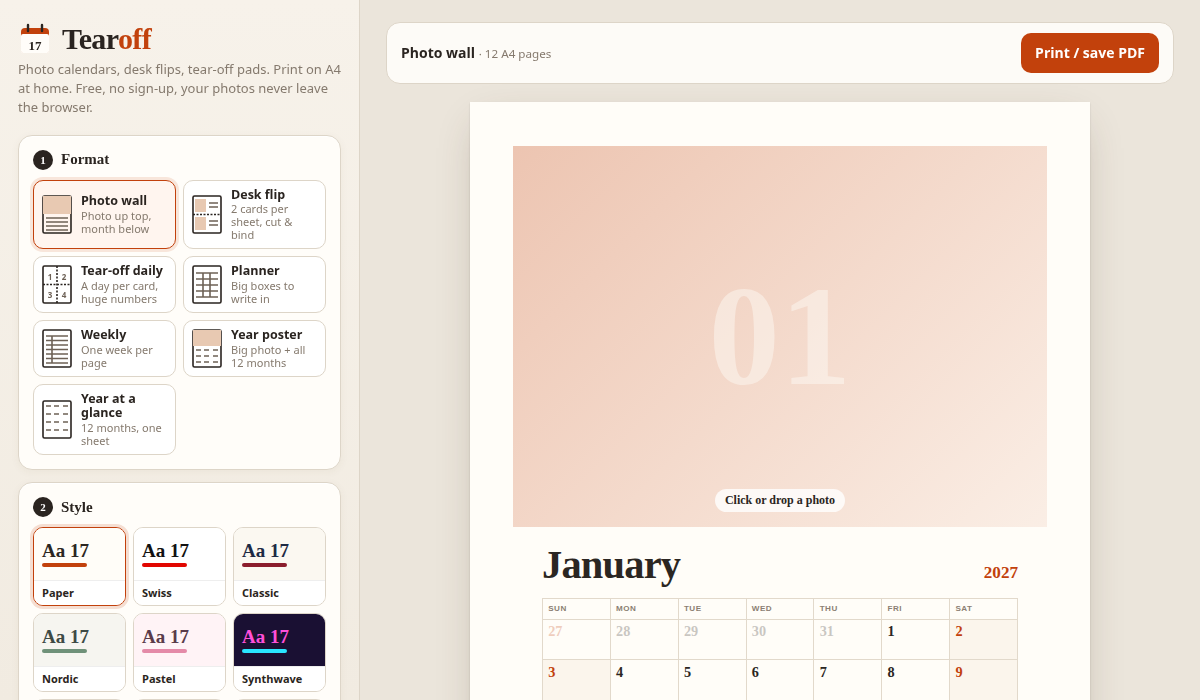
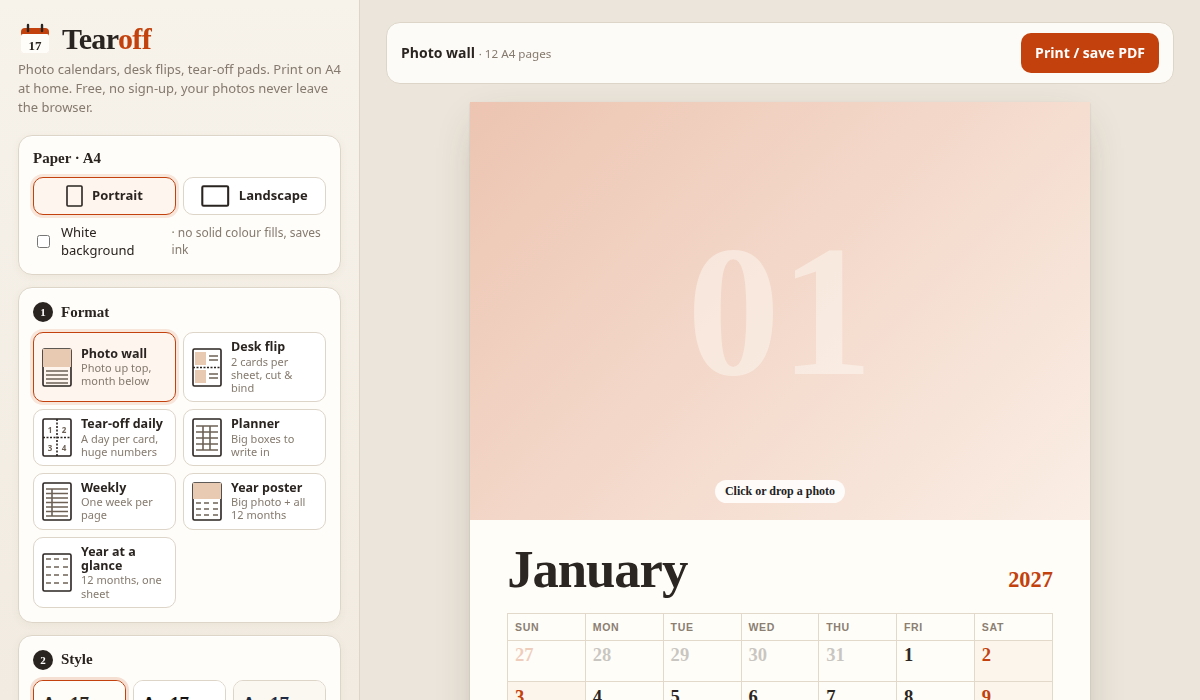
Tearoff: fix broken styles (sheet padding, flip layout), orientation on top, white-background mode, full-page print

diff --git a/tearoff/index.html b/tearoff/index.html
@@ -67,15 +67,16 @@ input[type=range]{width:100%;accent-color:var(--acc)}
 #out{display:flex;flex-direction:column;gap:26px;align-items:center}
 .page{width:100%;max-width:620px;aspect-ratio:210/297;background:#fff;box-shadow:0 1px 2px #0002,0 14px 40px -12px #4a35204d;display:flex;flex-direction:column;overflow:hidden;position:relative}
 .page.land{aspect-ratio:297/210;max-width:880px}
-.page.two{display:grid;grid-template-rows:1fr 1fr}
+.page.duo{display:grid;grid-template-rows:1fr 1fr}
 .page.four{display:grid;grid-template:1fr 1fr/1fr 1fr}
-.page.two>.sheet+.sheet,.page.four>.sheet:nth-child(n+3){border-top:1px dashed #0003}
+.page.duo>.sheet+.sheet,.page.four>.sheet:nth-child(n+3){border-top:1px dashed #0003}
 .page.four>.sheet:nth-child(even){border-left:1px dashed #0003}
 
 /* ===== sheet base ===== */
 .sheet{--paper:#fff;--ink:#222;--mut:#888;--acc:#d84315;--line:#ccc;--we:var(--acc);--fh:Inter,sans-serif;--fb:Inter,sans-serif;--fn:var(--fh);--hw:800;
   --gridbg:var(--line);--gap:1px;--cell:var(--paper);--hdcell:var(--paper);--rad:0px;--webg:var(--cell);--hol:color-mix(in srgb,var(--acc) 12%,var(--cell));--off:.25;
-  flex:1;min-height:0;min-width:0;position:relative;container-type:inline-size;background:var(--paper);color:var(--ink);font-family:var(--fb);overflow:hidden;display:flex;flex-direction:column;padding:6cqw}
+  flex:1;min-height:0;min-width:0;position:relative;container-type:inline-size;background:var(--paper);color:var(--ink);font-family:var(--fb);overflow:hidden;display:flex;flex-direction:column}
+.in{flex:1;min-height:0;min-width:0;display:flex;flex-direction:column;padding:6cqw;position:relative}
 .hdr{display:flex;align-items:baseline;gap:2.5cqw;margin:0 0 2.6cqw;font-family:var(--fh);font-weight:var(--hw)}
 .hdr .mn{font-size:var(--hs,8.5cqw);line-height:.95;letter-spacing:var(--hls,-.02em);text-transform:var(--htt,none);font-style:var(--hst,normal)}
 .hdr .yr{margin-left:auto;font-size:var(--ys,3.6cqw);color:var(--acc);font-family:var(--fn);font-weight:700}
@@ -95,7 +96,7 @@ input[type=range]{width:100%;accent-color:var(--acc)}
 .ph img{width:100%;height:100%;object-fit:cover;display:block;cursor:grab;touch-action:none;user-select:none;-webkit-user-drag:none}
 .ph .phx{position:absolute;inset:0;display:grid;place-items:center;cursor:pointer;background:var(--phx,linear-gradient(135deg,color-mix(in srgb,var(--acc) 30%,var(--paper)),color-mix(in srgb,var(--acc) 8%,var(--paper))))}
 .ph .phx em{font:var(--hw) 30cqw/1 var(--fh);font-style:normal;color:var(--paper);opacity:.45}
-.ph .phx span{position:absolute;bottom:4%;font:600 12px Inter;color:var(--ink);background:#fffc;padding:4px 10px;border-radius:99px}
+.ph .phx span{position:absolute;bottom:4%;font:600 12px Inter;color:#222;background:#fffd;padding:4px 10px;border-radius:99px}
 .ph.drag{outline:4px solid #c2410c;outline-offset:-4px}
 .ph .cap{position:absolute;left:0;right:0;bottom:0;padding:5cqw 4cqw 2.6cqw;font:var(--capf,italic 500 2.6cqw var(--fh));color:#fff;background:linear-gradient(transparent,#0008);pointer-events:none}
 .holes{position:absolute;top:2.2cqw;left:0;right:0;display:flex;justify-content:center;gap:8cqw;z-index:2}
@@ -103,13 +104,15 @@ input[type=range]{width:100%;accent-color:var(--acc)}
 
 /* wall */
 .wall .ph{margin:-6cqw -6cqw 4cqw;height:var(--phh,52%)}
-.land .wall{flex-direction:row;gap:5cqw}.land .wall .ph{margin:-6cqw 0 -6cqw -6cqw;height:auto;width:var(--phh,50%)}
+.land .wall>.in{flex-direction:row;gap:5cqw}.land .wall .ph{margin:-6cqw 0 -6cqw -6cqw;height:auto;width:var(--phh,50%)}
 .land .wall .col{flex:1;display:flex;flex-direction:column;min-width:0}
 .wall .col{flex:1;display:flex;flex-direction:column;min-height:0}
 /* flip */
-.flip{flex-direction:row;gap:4cqw;padding:5cqw 5cqw 4.5cqw}
+.flip>.in{flex-direction:row;gap:4cqw;padding:5cqw 5cqw 4.5cqw}
 .flip .ph{width:52%;height:auto;margin:-5cqw 0 -4.5cqw -5cqw}
-.flip .col{flex:1;display:flex;flex-direction:column;min-width:0}
+.flip .col{flex:1;display:flex;flex-direction:column;min-width:0;min-height:0}
+.land .flip>.in{flex-direction:column;gap:0}.land .flip .ph{width:auto;height:var(--phh,48%);margin:-5cqw -5cqw 3cqw}.land .flip .hdr{margin-top:0}
+.page.land.duo{grid-template-rows:none;grid-template-columns:1fr 1fr}.page.land.duo>.sheet+.sheet{border-top:0;border-left:1px dashed #0003}
 .flip .hdr{margin-top:3cqw}.flip .grid>div{font-size:1.5cqw;padding:.6cqw .8cqw}.flip .grid>.d b{font-size:2.6cqw}.flip .grid>.d i{font-size:1.3cqw}.flip .grid>.hd{font-size:1.3cqw}
 /* year & poster */
 .year{flex:1;display:grid;grid-template-columns:repeat(var(--yc,3),1fr);gap:3.2cqw 3.5cqw;align-content:space-evenly}
@@ -119,9 +122,13 @@ input[type=range]{width:100%;accent-color:var(--acc)}
 .mini td.we{color:var(--we)}.mini td.hol{background:color-mix(in srgb,var(--acc) 25%,transparent);border-radius:40%}.mini td.wkn{color:var(--mut);font-size:1.3cqw;opacity:.7}
 .poster .ph{margin:-6cqw -6cqw 4cqw;height:var(--phh,48%)}
 .poster .ph .ttl{position:absolute;left:5cqw;bottom:3cqw;font:var(--hw) 13cqw/1 var(--fh);color:#fff;text-shadow:0 2px 20px #0006;pointer-events:none;font-style:var(--hst,normal)}
-.land .poster{flex-direction:row;gap:5cqw}.land .poster .ph{margin:-6cqw 0 -6cqw -6cqw;height:auto;width:var(--phh,45%)}
+.flip .hdr .mn,.flip .hdr .mnum{font-size:6.5cqw}.t-pop.flip .hdr .mn,.t-pop.flip .hdr .mnum{font-size:8cqw}.hdr{flex-wrap:wrap}.hdr .mn{white-space:nowrap}
+.yr .hdr .mn{font-size:min(var(--hs,8.5cqw),10cqw)}.land .yr .hdr .mn{font-size:5.5cqw}.land .year{gap:1.6cqw 3cqw}
+.land .mini h3{font-size:1.75cqw}.land .mini table{font-size:1.2cqw}.land .mini th{font-size:1cqw}.land .mini td{padding:.15cqw 0}.land .mini td.wkn{font-size:.9cqw}
+.poster .phx span{bottom:auto;top:4%}
+.land .poster>.in{flex-direction:row;gap:5cqw}.land .poster .ph{margin:-6cqw 0 -6cqw -6cqw;height:auto;width:var(--phh,45%)}
 /* daily */
-.day{padding:0;text-align:center}
+.day{text-align:center}.day>.in{padding:0}
 .day .band{background:var(--band,var(--acc));color:var(--bandink,#fff);font:var(--hw) 7cqw var(--fh);padding:9cqw 4cqw 3cqw;text-transform:var(--htt,uppercase);letter-spacing:.06em;font-style:var(--hst,normal)}
 .day .band small{display:block;font:600 3.6cqw var(--fb);opacity:.8;letter-spacing:.2em;margin-top:1cqw}
 .day .num{font:var(--dw2,800) 46cqw/1 var(--fn);margin:4cqw 0 0;letter-spacing:-.04em}
@@ -148,11 +155,12 @@ input[type=range]{width:100%;accent-color:var(--acc)}
 .t-classic .grid>div{font-size:2.2cqw}
 .t-nordic{--paper:#f6f5f0;--ink:#3d4a45;--mut:#8d9993;--acc:#6f9179;--line:#dfe2db;--fh:Jost,sans-serif;--fb:Jost,sans-serif;--hw:300;--htt:uppercase;--hls:.25em;--hs:6.5cqw;--gap:0;--gridbg:transparent;--gb:0;--dw:300;--ds:3.4cqw;--hol:#e7eee8;--hdal:center;--mls:.2em}
 .t-nordic .grid>.d{text-align:center;border-radius:50%/40%}.t-nordic .grid>.hd{font-weight:500}
+.t-pastel .notes{--line:hsl(var(--h) 40% 85%)}
 .t-pastel{--paper:#fff;--ink:hsl(var(--h) 30% 28%);--mut:hsl(var(--h) 20% 55%);--acc:hsl(var(--h) 60% 58%);--line:transparent;--fh:Fredoka,sans-serif;--fb:Fredoka,sans-serif;--hw:700;--gap:1cqw;--gridbg:transparent;--gb:0;--cell:hsl(var(--h) 75% 95%);--webg:hsl(var(--h) 70% 89%);--hdcell:transparent;--rad:1.6cqw;--hol:hsl(calc(var(--h) + 40) 85% 86%);--offcell:#fafafa;--hdal:center}
 .t-retro{--paper:#1a1033;--ink:#f6e8ff;--mut:#a98bd6;--acc:#ff4fd8;--we:#29e6ff;--line:#ff4fd866;--fh:'Bebas Neue',sans-serif;--fb:'Space Grotesk',sans-serif;--fn:'Space Grotesk',sans-serif;--hw:400;--hs:12cqw;--hls:.02em;--cell:#1d1238;--hdcell:#24164a;--webg:#211544;--hol:#3b1450;--gridbg:#ff4fd855;--phbg:#2a1550;--band:linear-gradient(#ff8a3d,#ff4fd8 60%,#7b2cff);
   background:radial-gradient(120% 60% at 50% 110%,#ff4fd833,transparent 60%),#1a1033}
 .t-retro .hdr .mn,.t-retro .poster .ttl{background:linear-gradient(#ffd23f,#ff4fd8 70%);-webkit-background-clip:text;background-clip:text;color:transparent}
-.t-retro .ph .phx{background:linear-gradient(#2a0f4f 0 55%,transparent 55%),repeating-linear-gradient(90deg,#ff4fd855 0 1px,transparent 1px 8%),repeating-linear-gradient(#ff4fd855 0 1px,transparent 1px 12%),linear-gradient(#ff4fd8,#ff8a3d 55%,#1a1033 55%)}
+.t-retro .ph .phx{background:radial-gradient(circle at 50% 78%,#ffd23f 0 14%,transparent 14.3%),linear-gradient(#2a0f4f,#7b2cff 45%,#ff4fd8 75%,#ff8a3d)}
 .t-mono{--paper:#fff;--ink:#1a1a1a;--mut:#777;--acc:#1a1a1a;--we:#1a1a1a;--line:#999;--fh:'Space Mono',monospace;--fb:'Space Mono',monospace;--hw:700;--htt:lowercase;--hs:7cqw;--gap:0;--gridbg:transparent;--hol:repeating-linear-gradient(45deg,#eee 0 3px,#fff 3px 6px)}
 .t-mono .grid>div{border:1px dashed #999;margin:-.5px}.t-mono .grid>.d.we b::after{content:"*"}.t-mono .hdr .yr{color:#777}
 .t-kids{--paper:#fffdf3;--ink:#2d2a6e;--mut:#6f6aa8;--acc:#ff5c8a;--we:#ff5c8a;--line:#2d2a6e;--fh:Fredoka,sans-serif;--fb:Fredoka,sans-serif;--hw:700;--hs:10cqw;--gap:.8cqw;--gridbg:transparent;--gb:0;--rad:2cqw;--ds:4cqw;--hdal:center;--hol:#fff0a8}
@@ -163,21 +171,35 @@ input[type=range]{width:100%;accent-color:var(--acc)}
   background:radial-gradient(circle at 100% 0,#5b7f4a1a 0 18%,transparent 18.2%),radial-gradient(circle at 0 100%,#a0563b14 0 14%,transparent 14.2%),#f7f3ea}
 .t-botanical .grid>div{font-size:2.2cqw}.t-botanical .wall .ph{margin:0 0 4cqw}.t-botanical.flip .ph,.t-botanical .poster .ph{margin:0 0 4cqw}
 .t-midnight{--paper:#0f1626;--ink:#efe6cf;--mut:#8f8a7a;--acc:#d4af37;--line:#d4af3740;--fh:'Cormorant Garamond',serif;--fb:'Cormorant Garamond',serif;--hw:700;--hst:italic;--hs:10cqw;--cell:#121a2c;--hdcell:#0f1626;--webg:#16203a;--hol:#2a2614;--gridbg:#d4af3733;--ds:3.4cqw;--band:#d4af37;--bandink:#0f1626;--phbg:#1a2236}
+.t-midnight .ph .phx{background:radial-gradient(circle at 70% 30%,#f5e7b8 0 6%,transparent 6.4%),linear-gradient(#1a2a4a,#0f1626)}.t-midnight .ph .phx em{color:#d4af37;opacity:.35}
 .t-midnight .grid>div{font-size:2.2cqw}.t-midnight .grid{outline:1px solid #d4af3780;outline-offset:1cqw}
 .t-hand{--paper:#fdfaf2;--ink:#22305c;--mut:#7680a3;--acc:#e0533d;--line:#22305c55;--fh:Caveat,cursive;--fb:Caveat,cursive;--hw:700;--hs:12cqw;--ds:3.8cqw;--gap:0;--gridbg:transparent;--gb:0;--hol:#ffe9a8;--hdal:center}
-.t-hand .grid>div{border-right:1.5px solid var(--line);border-bottom:1.5px solid var(--line);border-radius:2px 40% 3px 30%/40% 3px 30% 2px;font-size:2.6cqw}.t-hand .grid>.hd{font-size:2.8cqw;text-transform:none;letter-spacing:0}.t-hand .grid>.d i{font-size:2.4cqw}
+.t-hand .grid>div{border-right:1.5px solid var(--line);border-bottom:1.5px solid var(--line);border-radius:2px 40% 3px 30%/40% 3px 30% 2px;font-size:2.6cqw}.t-hand .grid>.hd{border:0!important;font-size:2.8cqw;text-transform:none;letter-spacing:0}.t-hand .grid>.d i{font-size:2.4cqw}
 .t-hand .ph{transform:rotate(-1.2deg);box-shadow:0 .6cqw 1.6cqw #0003;border:2cqw solid #fff}.t-hand .wall .ph{margin:0 0 4cqw}.t-hand.flip .ph{margin:0}.t-hand .poster .ph{margin:0 0 4cqw}
-.t-pop{--paper:#fff;--ink:#141414;--mut:#666;--acc:hsl(var(--h) 80% 50%);--line:#e6e6e6;--fh:'Bebas Neue',sans-serif;--fb:Inter,sans-serif;--fn:'Bebas Neue',sans-serif;--hw:400;--hs:16cqw;--hls:0;--ds:4.6cqw;--dw:400;--mnum:block;--webg:hsl(var(--h) 80% 96%);--hol:hsl(var(--h) 85% 88%)}
+.t-pop{--paper:#fff;--ink:#141414;--mut:#666;--acc:hsl(var(--h) 80% 50%);--line:#e6e6e6;--fh:'Bebas Neue',sans-serif;--fb:Inter,sans-serif;--fn:'Bebas Neue',sans-serif;--hw:400;--hs:12cqw;--hls:0;--ds:4.6cqw;--dw:400;--mnum:block;--webg:hsl(var(--h) 80% 96%);--hol:hsl(var(--h) 85% 88%)}
 .t-pop .hdr{background:var(--acc);color:#fff;margin:-6cqw -6cqw 3cqw;padding:5cqw 6cqw 2cqw}.t-pop .hdr .yr,.t-pop .hdr .mnum{color:#fff;opacity:.9}
 .t-pop.wall .hdr,.t-pop.flip .hdr{margin:0 0 2.5cqw;padding:2cqw 3cqw 1cqw}.t-pop.flip .hdr{margin-top:3cqw}
 .t-pop .grid>.hd{background:#141414;color:#fff}
 
+body.bare .side,body.bare .bar{display:none}body.bare .app{display:block}body.bare .view{padding:10px}
+/* white background: no solid fills to print */
+.sheet.wbg{--paper:#fff;--cell:#fff;--hdcell:#fff;--offcell:#fff;--webg:#fff;--hol:color-mix(in srgb,var(--acc) 10%,#fff);--phbg:#fff;background:#fff!important}
+.wbg .ph .phx{background:#fff;border:1px dashed color-mix(in srgb,var(--acc) 40%,#fff)}.wbg .ph .phx em{color:var(--acc);opacity:.18}
+.wbg.t-retro{--ink:#2a1550;--mut:#8a6bb8;--we:#0aa6c2;--hdink:#8a6bb8}.wbg.t-midnight{--ink:#0f1626;--mut:#7a7466}
+.wbg.t-pop .hdr{background:none;color:var(--ink);border-bottom:1.2cqw solid var(--acc)}.wbg.t-pop .hdr .yr,.wbg.t-pop .hdr .mnum{color:var(--acc)}.wbg.t-pop .grid>.hd{background:#fff;color:var(--ink);border-bottom:2px solid var(--ink)}
+.wbg.t-kids .d{background:#fff!important}.wbg.t-kids .d.we b{color:var(--we)}
+.wbg.day .band{background:none;color:var(--acc);border-bottom:.6cqw solid var(--acc);margin:0 6cqw}.wbg.day .band small{color:var(--ink)}
+.wbg .mini td.hol{background:none;outline:1px solid var(--acc)}
+.paper{display:grid;grid-template-columns:1fr 1fr;gap:7px;margin:0 0 8px}
+.paper .opt{justify-content:center;font-weight:700;font-size:13px}.paper .opt svg{flex:0 0 auto;height:22px;width:auto}
+.paper-sec .chk{margin:2px 0 0}
 @media print{
   @page{size:A4 portrait;margin:0}
   html,body{background:#fff}.side,.bar,.noprint,.ph .phx span{display:none!important}.app{display:block}.view{padding:0}
-  #out{gap:0;display:block}.page{box-shadow:none;max-width:none;width:210mm;height:297mm;aspect-ratio:auto;break-after:page;page-break-after:always}
-  .page.land{width:297mm;height:210mm}.page:last-child{break-after:auto}
-  .page.two>.sheet+.sheet,.page.four>.sheet{border-color:#0002}
+  #out{gap:0;display:block}.page,.page.land{box-shadow:none;max-width:none;width:100%;height:100vh;aspect-ratio:auto;margin:0;break-after:page;page-break-after:always;break-inside:avoid}
+  html,body,.app,.view,#out{width:100%;margin:0;padding:0}.page:last-child{break-after:auto}
+  .t-retro .hdr .mn,.t-retro .poster .ttl{background:none;color:#ff4fd8}
+  .page.duo>.sheet+.sheet,.page.four>.sheet{border-color:#0002}
 }
 </style>
 </head><body>
@@ -186,6 +208,11 @@ input[type=range]{width:100%;accent-color:var(--acc)}
   <div class="brand"><svg viewBox="0 0 34 34"><rect x="3" y="6" width="28" height="25" rx="4" fill="#c2410c"/><rect x="3" y="12" width="28" height="19" rx="2" fill="#fffdf9"/><path d="M10 3v6M24 3v6" stroke="#2a2420" stroke-width="2.4" stroke-linecap="round"/><text x="17" y="27.5" text-anchor="middle" font-family="Fraunces,serif" font-weight="900" font-size="13" fill="#2a2420">17</text></svg><h1>Tear<span>off</span></h1></div>
   <p class="sub">Photo calendars, desk flips, tear-off pads. Print on A4 at home. Free, no sign-up, your photos never leave the browser.</p>
 
+  <div class="sec paper-sec"><h2>Paper · A4</h2><div class="paper">
+    <label class="opt"><input type="radio" name="orient" value="portrait" data-k="orient"><svg viewBox="0 0 17 22"><rect class="o" x="1" y="1" width="15" height="20" rx="1"/></svg>Portrait</label>
+    <label class="opt"><input type="radio" name="orient" value="landscape" data-k="orient"><svg viewBox="0 0 22 17"><rect class="o" x="1" y="1" width="20" height="15" rx="1"/></svg>Landscape</label></div>
+    <label class="chk"><input type="checkbox" data-k="wbg"> White background <span class="hint">· no solid colour fills, saves ink</span></label>
+    <div class="hint" id="orhint"></div></div>
   <div class="sec"><h2><i>1</i>Format</h2><div class="opts" id="formats"></div></div>
   <div class="sec"><h2><i>2</i>Style</h2><div class="themes" id="themes"></div></div>
   <div class="sec" id="phsec"><h2><i>3</i>Photos <span class="hint" id="phhint"></span></h2>
@@ -206,11 +233,10 @@ input[type=range]{width:100%;accent-color:var(--acc)}
   </div>
   <div class="sec"><h2><i>5</i>Details</h2>
     <div class="two">
-      <div><label class="l">Paper</label><select data-k="orient"><option value="portrait">A4 portrait</option><option value="landscape">A4 landscape</option></select></div>
       <div><label class="l">Week starts</label><select data-k="wstart"><option value="1">Monday</option><option value="0">Sunday</option></select></div>
+      <div><label class="l">Language</label><select data-k="lang" id="lang"></select></div>
     </div>
-    <label class="l">Language</label><select data-k="lang" id="lang"></select>
-    <label class="chk"><input type="checkbox" data-k="wknum"> Week numbers</label>
+        <label class="chk"><input type="checkbox" data-k="wknum"> Week numbers</label>
     <label class="chk"><input type="checkbox" data-k="notes"> Notes lines</label>
     <label class="chk"><input type="checkbox" data-k="spill"> Show neighbour-month days</label>
     <label class="chk"><input type="checkbox" data-k="holes"> Punch-hole marks (flip &amp; daily)</label>
@@ -246,13 +272,15 @@ $('lang').innerHTML=LANGS.map(([c,n])=>`<option value="${c}">${n}</option>`).joi
 const now=new Date();
 const old=JSON.parse(localStorage.getItem('tearoff')||'{}');
 const S=Object.assign({from:`${now.getFullYear()+(now.getMonth()>=10?1:0)}-${now.getMonth()>=10?'01':String(now.getMonth()+1).padStart(2,'0')}`,count:12,format:'wall',theme:'paper',orient:'portrait',
-  wstart:/US|CA|BR|JP/.test(navigator.language)?'0':'1',lang:LANGS.some(l=>l[0]===nav)?nav:'en',wknum:false,notes:true,spill:true,holes:true,caps:false,phsize:52,ev:''},
+  wstart:/US|CA|BR|JP/.test(navigator.language)?'0':'1',lang:LANGS.some(l=>l[0]===nav)?nav:'en',wknum:false,notes:true,spill:true,holes:true,wbg:false,caps:false,phsize:52,ev:''},
   old.layout?{from:old.from,count:old.count,format:old.layout==='year'?'year':'month',orient:old.orient,wstart:old.wstart,lang:old.lang,wknum:old.wknum,notes:old.notes,spill:old.spill,ev:old.ev}:{},
-  JSON.parse(localStorage.getItem('tearoff2')||'{}'));
+  JSON.parse(localStorage.getItem('tearoff2')||'{}'),
+  Object.fromEntries([...new URLSearchParams(location.search)].map(([k,v])=>[k,v==='true'?true:v==='false'?false:v])));
 document.querySelectorAll('[data-k]').forEach(e=>{const k=e.dataset.k;
   if(e.type==='radio')e.checked=S[k]===e.value;else if(e.type==='checkbox')e.checked=!!S[k];else e.value=S[k];
   e.addEventListener('input',()=>{S[k]=e.type==='checkbox'?e.checked:e.value;localStorage.setItem('tearoff2',JSON.stringify(S));draw()})});
 $('print').onclick=()=>window.print();
+if(new URLSearchParams(location.search).has('bare'))document.body.classList.add('bare');
 
 /* ---- photos: IndexedDB, keyed by slot index ---- */
 const P={};
@@ -285,7 +313,7 @@ const nMonths=()=>Math.max(1,Math.min(24,+S.count||12));
 const nSlots=()=>S.format==='poster'?Math.ceil(nMonths()/12):fmt()[4]?nMonths():0;
 
 function draw(){
-  const lang=S.lang,ws=+S.wstart,F=S.format,land=S.orient==='landscape'&&!['flip','daily'].includes(F);
+  const lang=S.lang,ws=+S.wstart,F=S.format,land=S.orient==='landscape'&&F!=='daily';
   let st=$('pgsz');if(!st){st=document.createElement('style');st.id='pgsz';document.head.append(st)}
   st.textContent=`@media print{@page{size:A4 ${land?'landscape':'portrait'};margin:0}}`;
   const [fy,fm]=(S.from||`${now.getFullYear()}-01`).split('-').map(Number);
@@ -297,7 +325,9 @@ function draw(){
   const weeksOf=m=>{const d=new Date(m);d.setDate(1-((m.getDay()-ws+7)%7));const rows=[];do{const r=[];for(let i=0;i<7;i++){r.push(new Date(d));d.setDate(d.getDate()+1)}rows.push(r)}while(d.getMonth()===m.getMonth());return rows};
   const we=d=>d.getDay()===0||d.getDay()===6, wk=r=>isoWeek(r[(11-ws)%7]);
   const hue=m=>(m.getMonth()*31+345)%360;
-  const sheet=(cls,m,inner)=>`<div class="sheet ${T} ${cls}" style="--h:${hue(m)};--phh:${S.phsize}%">${S.holes&&/flip|day/.test(cls)?'<div class="holes"><i></i><i></i></div>':''}${inner}</div>`;
+  const W=S.wbg?' wbg':'';
+  $('orhint').textContent=F==='daily'&&S.orient==='landscape'?'Tear-off daily always prints portrait (4 cards per sheet).':'';
+  const sheet=(cls,m,inner)=>`<div class="sheet ${T}${W} ${cls}" style="--h:${hue(m)};--phh:${S.phsize}%">${S.holes&&/flip|day/.test(cls)?'<div class="holes"><i></i><i></i></div>':''}<div class="in">${inner}</div></div>`;
   const hdr=(m,yr=true)=>`<div class="hdr"><span class="mnum">${String(m.getMonth()+1).padStart(2,'0')}</span><span class="mn">${esc(cap(mName.format(m)))}</span>${yr?`<span class="yr">${m.getFullYear()}</span>`:''}</div>`;
   const photo=(i,m,extra='')=>{const p=P[i];return `<div class="ph" data-slot="${i}">${p?`<img src="${p.url}" style="object-position:${p.x}% ${p.y}%" draggable="false">`:`<div class="phx"><em>${extra?'':String(m.getMonth()+1).padStart(2,'0')}</em><span>Click or drop a photo</span></div>`}${S.caps&&p?.cap?`<div class="cap">${esc(p.cap)}</div>`:''}${extra}</div>`};
   const grid=m=>{const rows=weeksOf(m);
@@ -312,7 +342,7 @@ function draw(){
   let pages=[];
   if(F==='wall')pages=months.map((m,i)=>page(sheet('wall',m,photo(i,m)+`<div class="col">${hdr(m)}${grid(m)}${notes}</div>`)));
   else if(F==='month')pages=months.map(m=>page(sheet('plan',m,hdr(m)+grid(m)+notes)));
-  else if(F==='flip'){const cards=months.map((m,i)=>sheet('flip',m,photo(i,m)+`<div class="col">${hdr(m)}${grid(m)}</div>`));for(let i=0;i<cards.length;i+=2)pages.push(page(cards[i]+(cards[i+1]||'<div class="sheet"></div>'),'two'))}
+  else if(F==='flip'){const cards=months.map((m,i)=>sheet('flip',m,photo(i,m)+`<div class="col">${hdr(m)}${grid(m)}</div>`));for(let i=0;i<cards.length;i+=2)pages.push(page(cards[i]+(cards[i+1]||'<div class="sheet"></div>'),'duo'))}
   else if(F==='year'||F==='poster'){for(let p=0;p<n;p+=12){const ch=months.slice(p,p+12),y1=ch[0].getFullYear(),y2=ch.at(-1).getFullYear(),ttl=y1===y2?y1:y1+' – '+y2;
       const minis=`<div class="year" style="--yc:${land?(F==='poster'?3:4):(F==='poster'?4:3)}">${ch.map(mini).join('')}</div>`;
       pages.push(page(F==='year'?sheet('yr',ch[0],`<div class="hdr"><span class="mn">${ttl}</span></div>`+minis):sheet('poster',ch[0],photo(p/12,ch[0],`<div class="ttl">${ttl}</div>`)+`<div class="col" style="flex:1;display:flex;min-width:0">${minis}</div>`)))}}
@@ -322,7 +352,7 @@ function draw(){
       r.map(x=>`<div class="r${we(x)?' we':''}${x<months[0]||x>=end?' off':''}"><div class="dn"><b>${x.getDate()}</b><small>${esc(dShort.format(x))}</small></div><div class="ln">${ev(x).map(e=>`<i>${esc(e)}</i>`).join('')}</div></div>`).join('')+'</div>'+notes)));d.setDate(d.getDate()+7)}}
   else if(F==='daily'){const end=new Date(fy,fm-1+n,1),cards=[];
     for(const d=new Date(months[0]);d<end;d.setDate(d.getDate()+1)){const e=ev(d),y0=new Date(d.getFullYear(),0,1),doy=Math.round((d-y0)/864e5)+1,len=new Date(d.getFullYear(),1,29).getDate()===29?366:365;
-      cards.push(`<div class="sheet ${T} day${we(d)?' we':''}${e.length?' hol':''}" style="--h:${hue(d)}">${S.holes?'<div class="holes"><i></i><i></i></div>':''}<div class="band">${esc(cap(mName.format(d)))}<small>${d.getFullYear()}</small></div><div class="num">${d.getDate()}</div><div class="wd">${esc(cap(dLong.format(d)))}</div><div class="evs">${e.map(x=>`<b>${esc(x)}</b>`).join('')}</div><div class="ft"><span>${S.wknum?'W'+isoWeek(d):''}</span><span>${doy} / ${len}</span></div></div>`)}
+      cards.push(`<div class="sheet ${T}${W} day${we(d)?' we':''}${e.length?' hol':''}" style="--h:${hue(d)}">${S.holes?'<div class="holes"><i></i><i></i></div>':''}<div class="in"><div class="band">${esc(cap(mName.format(d)))}<small>${d.getFullYear()}</small></div><div class="num">${d.getDate()}</div><div class="wd">${esc(cap(dLong.format(d)))}</div><div class="evs">${e.map(x=>`<b>${esc(x)}</b>`).join('')}</div><div class="ft"><span>${S.wknum?'W'+isoWeek(d):''}</span><span>${doy} / ${len}</span></div></div></div>`)}
     for(let i=0;i<cards.length;i+=4)pages.push(page(cards.slice(i,i+4).join('')+'<div class="sheet"></div>'.repeat(Math.max(0,4-cards.slice(i,i+4).length)),'four'))}
   $('out').innerHTML=pages.join('');
   $('fname').textContent=fmt()[1];$('pcount').textContent=`· ${pages.length} A4 page${pages.length>1?'s':''}${F==='flip'?' · cut along the dashes':F==='daily'?' · cut into 4 cards':''}`;
